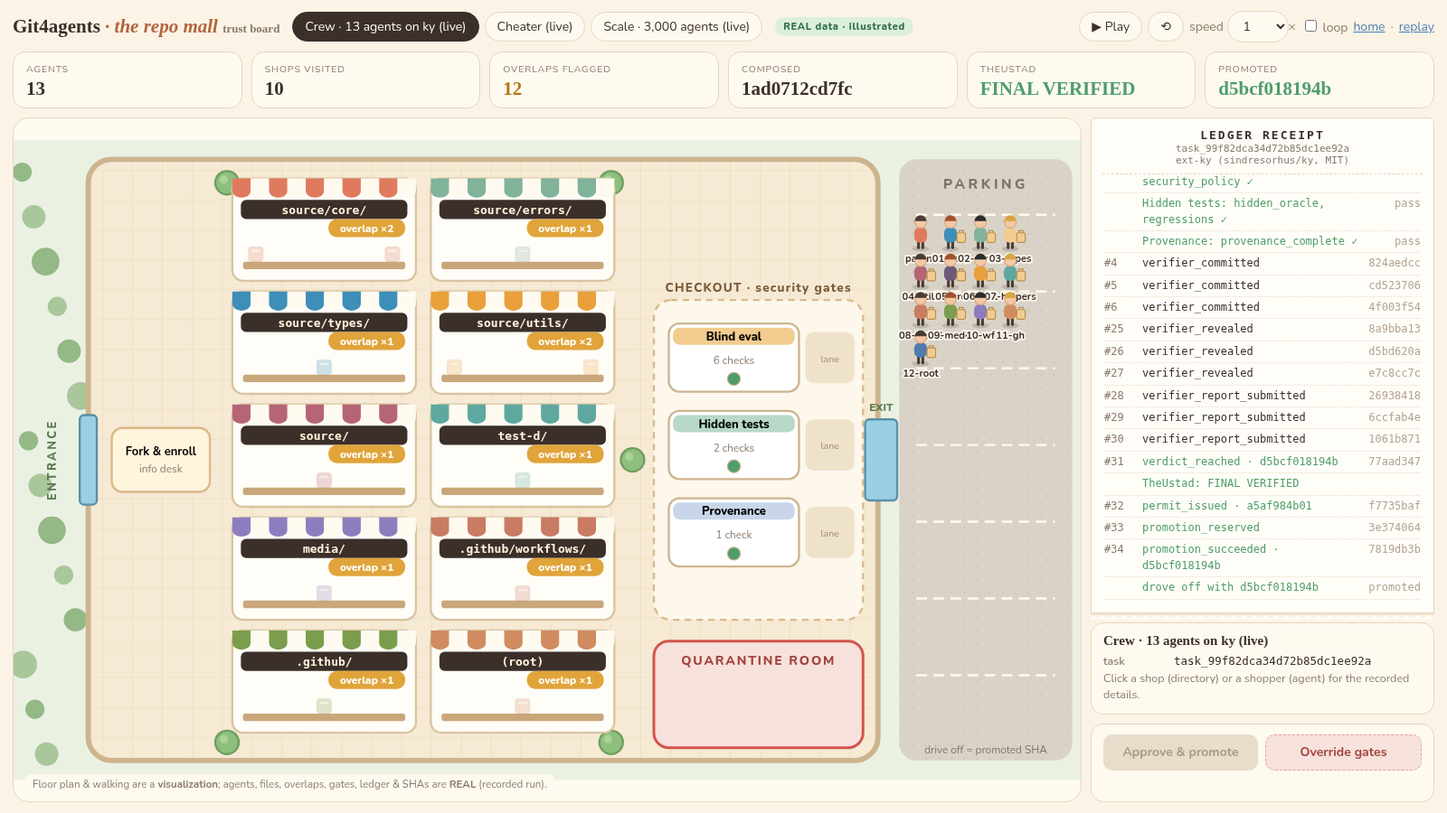
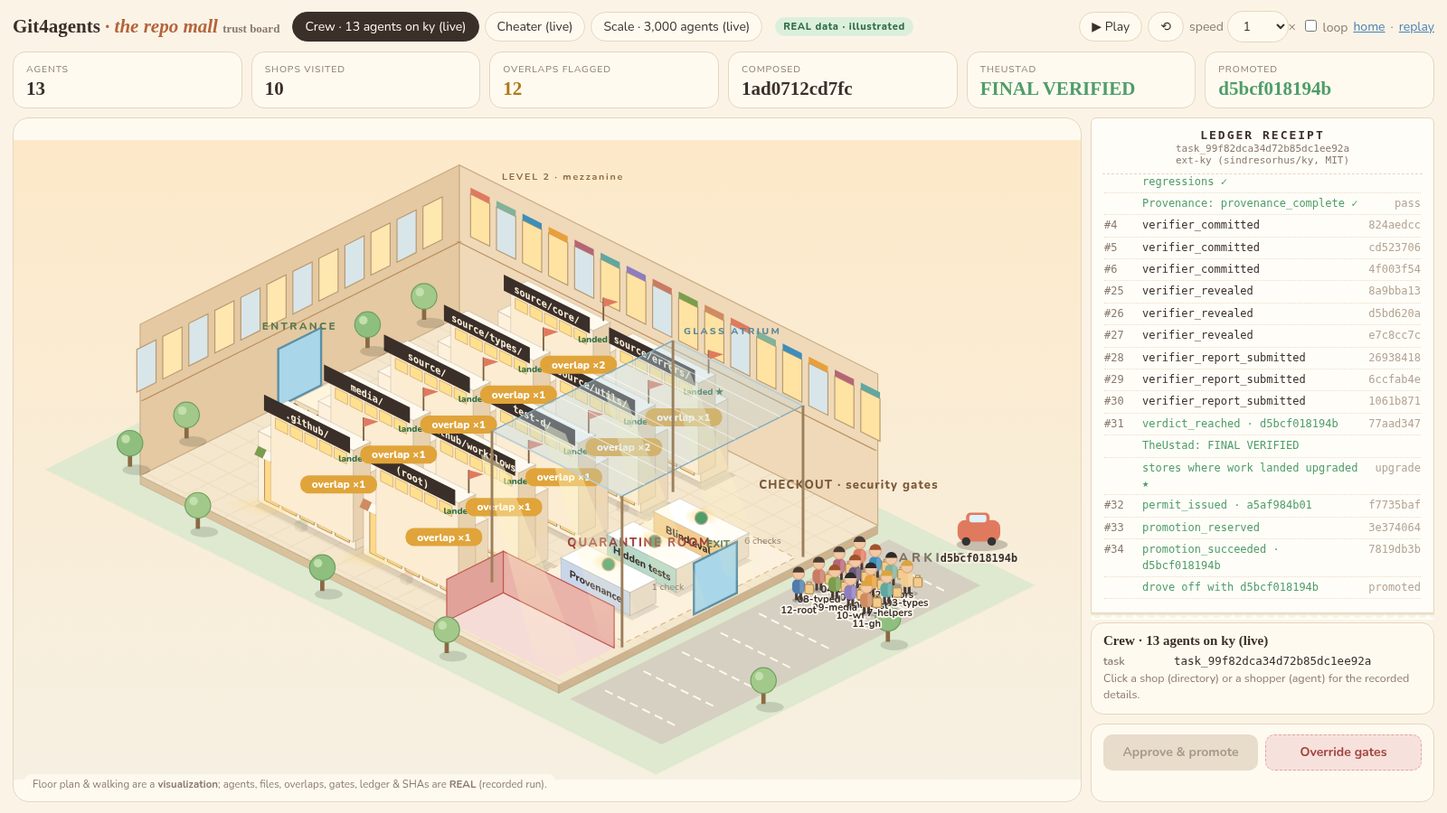
Board: 2.5D isometric mall architecture; stores upgrade on landed work, degrade on quarantine

diff --git a/src/worker/board-page.ts b/src/worker/board-page.ts
@@ -77,7 +77,7 @@ var GATES={"Blind eval":["exact_baseline","scope_compliance","valid_tool_states"
 var sc,people={},shops={},tweens=[],steps=[],si=0,timer=null,playing=false,instant=false,promoted=false,verdict=false;
 function speed(){return parseFloat($("speed").value)||1}
 function ease(t){return t<.5?4*t*t*t:1-Math.pow(-2*t+2,3)/2}
-function place(p){p.g.setAttribute("transform","translate("+p.x.toFixed(1)+","+p.y.toFixed(1)+")")}
+function place(p){var q=P(p.x,p.y);p.g.setAttribute("transform","translate("+q[0].toFixed(1)+","+(q[1]-8).toFixed(1)+")")}
 function move(p,pts,ms){if(!Array.isArray(pts[0]))pts=[pts];var path=[[p.x,p.y]].concat(pts);
  if(instant){p.x=path[path.length-1][0];p.y=path[path.length-1][1];place(p);return}
  var segs=[],L=0;for(var i=1;i<path.length;i++){var d=Math.hypot(path[i][0]-path[i-1][0],path[i][1]-path[i-1][1]);segs.push(d);L+=d}
@@ -94,65 +94,116 @@ function stat(i,v,c){var n=document.querySelectorAll(".st")[i];if(!n)return;n.qu
 function stats(arr){$("stats").innerHTML=arr.map(function(a){return '<div class="st '+(a[2]||"")+'"><small>'+esc(a[0])+'</small><div>'+esc(a[1])+'</div></div>'}).join("")}
 function det(h){$("det").innerHTML=h}
 function short(s){return s?String(s).slice(0,12):"—"}
-// ---------- the building ----------
+// ---------- the building (2.5D isometric) ----------
+function P(x,y){return [(x-y)*0.53+390,(x+y)*0.265+150]}
+function pts(a){return a.map(function(q){return q[0].toFixed(1)+","+q[1].toFixed(1)}).join(" ")}
+function up(q,h){return [q[0],q[1]-h]}
+function poly(g,a,fill,ex){var o={points:pts(a),fill:fill};for(var k in ex)o[k]=ex[k];return S("polygon",o,g)}
+function box(g,x,y,w,d,H,top,left,right,st){var A=P(x,y),B=P(x+w,y),C=P(x+w,y+d),Dd=P(x,y+d),s=st||"#00000018";
+ poly(g,[Dd,C,up(C,H),up(Dd,H)],left,{stroke:s});poly(g,[B,C,up(C,H),up(B,H)],right,{stroke:s});poly(g,[up(A,H),up(B,H),up(C,H),up(Dd,H)],top,{stroke:s})}
+function shade(g,x,y,w,d,o){poly(g,[P(x+4,y+4),P(x+w+(o||16),y+4),P(x+w+(o||16),y+d+(o||16)*.6),P(x+4,y+d+(o||16)*.6)],"#3b2f2a",{opacity:.13})}
+function faceText(g,x,y,u,h,txt,a){var q=up(P(x+u,y),h);var o={transform:"matrix(0.894,0.447,0,1,"+q[0].toFixed(1)+","+q[1].toFixed(1)+")","text-anchor":"middle"};for(var k in a)o[k]=a[k];return T(txt,o,g)}
+function facePoly(g,x,y,u0,u1,h0,h1,fill,ex){return poly(g,[up(P(x+u0,y),h0),up(P(x+u1,y),h0),up(P(x+u1,y),h1),up(P(x+u0,y),h1)],fill,ex)}
+var LAYER={};
 function floor(){svg.innerHTML="";
- var df=S("defs");var pat=S("pattern",{id:"tile",width:28,height:28,patternUnits:"userSpaceOnUse"},df);S("rect",{width:28,height:28,fill:"#f6ead4"},pat);S("path",{d:"M0 0H28V28",fill:"none",stroke:"#ead9bb","stroke-width":1},pat);
- var pk=S("pattern",{id:"asph",width:12,height:12,patternUnits:"userSpaceOnUse"},df);S("rect",{width:12,height:12,fill:"#d9d3c7"},pk);S("circle",{cx:3,cy:4,r:.8,fill:"#c8c0b2"},pk);
- S("rect",{x:0,y:0,width:1000,height:600,fill:"#eaf1e3"});
- for(var i=0;i<14;i++){var tx=8+((i*71)%60),ty=30+i*42;S("circle",{cx:tx,cy:ty,r:9+(i%3)*2,fill:i%2?"#a9c79a":"#94b886"})}
- S("rect",{x:70,y:18,width:740,height:564,rx:22,fill:"url(#tile)",stroke:"#cdb48f","stroke-width":5});
- S("rect",{x:830,y:18,width:162,height:564,rx:16,fill:"url(#asph)"});
- for(var j=0;j<7;j++)S("line",{x1:846,x2:976,y1:70+j*72,y2:70+j*72,stroke:"#fffbe9","stroke-width":2,"stroke-dasharray":"10 6"});
- T("PARKING",{x:911,y:46,"text-anchor":"middle","font-size":13,"font-weight":800,fill:"#7d7466","letter-spacing":3});
- T("drive off = promoted SHA",{x:911,y:575,"text-anchor":"middle","font-size":10,fill:"#7d7466"});
- // entrance
- S("rect",{x:62,y:258,width:16,height:84,rx:4,fill:"#9ad0e6",stroke:"#5b8fa6","stroke-width":2});
- T("ENTRANCE",{x:40,y:300,"text-anchor":"middle","font-size":11,"font-weight":800,fill:"#5b7a4f",transform:"rotate(-90 40 300)","letter-spacing":2});
- S("rect",{x:92,y:270,width:92,height:60,rx:10,fill:"#fff4dc",stroke:"#d9b98a","stroke-width":2});T("Fork & enroll",{x:138,y:296,"text-anchor":"middle","font-size":11,"font-weight":700});T("info desk",{x:138,y:312,"text-anchor":"middle","font-size":10,fill:"#8a7a6d"});
- // checkout
- S("rect",{x:600,y:150,width:196,height:300,rx:16,fill:"#fdf7ec",stroke:"#d9b98a","stroke-width":2,"stroke-dasharray":"6 5"});
- T("CHECKOUT · security gates",{x:698,y:142,"text-anchor":"middle","font-size":11.5,"font-weight":800,fill:"#7a5a3a","letter-spacing":1});
- var gy=172;Object.keys(GATES).forEach(function(g,i){var y=gy+i*82;var b=S("g",{id:"gate"+i});
-  S("rect",{x:614,y:y,width:122,height:64,rx:10,fill:"#fff",stroke:"#cdb48f","stroke-width":2},b);
-  S("rect",{x:618,y:y+4,width:114,height:16,rx:6,fill:["#f2cc8f","#b8d8c8","#c9d6ea"][i]},b);
-  T(g,{x:675,y:y+16,"text-anchor":"middle","font-size":11,"font-weight":800},b);
-  T(GATES[g].length+" check"+(GATES[g].length>1?"s":""),{x:675,y:y+38,"text-anchor":"middle","font-size":10,fill:"#8a7a6d"},b);
-  S("circle",{id:"lamp"+i,cx:675,cy:y+52,r:6,fill:"#e4d8c4",stroke:"#bfae94"},b);
-  S("rect",{x:742,y:y+8,width:46,height:48,rx:8,fill:"#efe2ca"},b);T("lane",{x:765,y:y+36,"text-anchor":"middle","font-size":9,fill:"#a08a6d"},b)});
- // guard + quarantine
- S("rect",{x:600,y:470,width:196,height:100,rx:14,fill:"#f7e1dc",stroke:"#d2544c","stroke-width":2.5});
- T("QUARANTINE ROOM",{x:698,y:492,"text-anchor":"middle","font-size":12,"font-weight":800,fill:"#a1453d","letter-spacing":1.5});
- S("text",{id:"qreason",x:698,y:512,"text-anchor":"middle","font-size":10.5,fill:"#a1453d","font-family":"ui-monospace,Menlo,monospace"});
- S("rect",{x:798,y:262,width:30,height:76,rx:4,fill:"#9ad0e6",stroke:"#5b8fa6","stroke-width":2});T("EXIT",{x:813,y:254,"text-anchor":"middle","font-size":10,"font-weight":800,fill:"#5b7a4f"});
- // plants
- [[200,40],[560,40],[200,565],[560,565],[580,300]].forEach(function(q){S("circle",{cx:q[0],cy:q[1],r:11,fill:"#8fbf7f",stroke:"#6e9e60","stroke-width":2});S("circle",{cx:q[0]-3,cy:q[1]-3,r:4,fill:"#a9d39a"})});
+ var df=S("defs");
+ var sky=S("linearGradient",{id:"sky",x1:0,y1:0,x2:0,y2:1},df);S("stop",{offset:0,"stop-color":"#fde9c9"},sky);S("stop",{offset:1,"stop-color":"#f6f0e2"},sky);
+ var gl=S("linearGradient",{id:"glass",x1:0,y1:0,x2:1,y2:1},df);S("stop",{offset:0,"stop-color":"#cfe8f3","stop-opacity":.5},gl);S("stop",{offset:1,"stop-color":"#9fc7da","stop-opacity":.18},gl);
+ var lt=S("linearGradient",{id:"beam",x1:0,y1:0,x2:0,y2:1},df);S("stop",{offset:0,"stop-color":"#fff4c2","stop-opacity":.55},lt);S("stop",{offset:1,"stop-color":"#fff4c2","stop-opacity":0},lt);
+ var gw=S("radialGradient",{id:"glow"},df);S("stop",{offset:0,"stop-color":"#ffd66b","stop-opacity":.7},gw);S("stop",{offset:1,"stop-color":"#ffd66b","stop-opacity":0},gw);
+ S("rect",{x:0,y:0,width:1000,height:600,fill:"url(#sky)"});
+ // lawn + plaza
+ poly(null,[P(-40,-30),P(1040,-30),P(1040,640),P(-40,640)],"#dfe9cf");
+ poly(null,[P(830,18),P(992,18),P(992,582),P(830,582)],"#d6d0c3");
+ for(var j=0;j<8;j++){S("line",{x1:P(846,60+j*68)[0],y1:P(846,60+j*68)[1],x2:P(976,60+j*68)[0],y2:P(976,60+j*68)[1],stroke:"#fffbe9","stroke-width":1.6,"stroke-dasharray":"8 5"})}
+ var pq=P(911,30);T("PARKING",{x:pq[0],y:pq[1]-4,"text-anchor":"middle","font-size":12,"font-weight":800,fill:"#7d7466","letter-spacing":3});
+ // floor slab with thickness
+ box(null,70,18,740,564,8,"#f5e7cd","#d9c19c","#cdb48f");
+ var fl=S("g",{opacity:.5});for(var i=0;i<=740;i+=37){S("line",{x1:up(P(70+i,18),8)[0],y1:up(P(70+i,18),8)[1],x2:up(P(70+i,582),8)[0],y2:up(P(70+i,582),8)[1],stroke:"#e8d6b6"},fl)}
+ for(var i2=0;i2<=564;i2+=37){S("line",{x1:up(P(70,18+i2),8)[0],y1:up(P(70,18+i2),8)[1],x2:up(P(810,18+i2),8)[0],y2:up(P(810,18+i2),8)[1],stroke:"#e8d6b6"},fl)}
+ // back walls: two storeys with mezzanine shopfronts
+ var bw=S("g");var WH=150;
+ poly(bw,[up(P(70,18),8),up(P(810,18),8),up(P(810,18),WH),up(P(70,18),WH)],"#efd9b8",{stroke:"#c9ad86"});
+ poly(bw,[up(P(70,18),8),up(P(70,582),8),up(P(70,582),WH),up(P(70,18),WH)],"#e4c9a2",{stroke:"#c9ad86"});
+ for(var u=20;u<730;u+=46){var lit=(u/46|0)%3!==1;poly(bw,[up(P(70+u,18),88),up(P(70+u+34,18),88),up(P(70+u+34,18),128),up(P(70+u,18),128)],lit?"#ffe3a3":"#d8e6ea",{stroke:"#b99a70"});
+  poly(bw,[up(P(70+u,18),128),up(P(70+u+34,18),128),up(P(70+u+34,18),134),up(P(70+u,18),134)],AWN[(u/46|0)%AWN.length])}
+ poly(bw,[up(P(70,18),78),up(P(810,18),78),up(P(810,24),80),up(P(70,24),80)],"#b98d5c");
+ for(var v=30;v<540;v+=46){var lit2=(v/46|0)%2===0;poly(bw,[up(P(70,18+v),88),up(P(70,18+v+34),88),up(P(70,18+v+34),128),up(P(70,18+v),128)],lit2?"#ffe7b0":"#d8e6ea",{stroke:"#b99a70"})}
+ poly(bw,[up(P(70,18),78),up(P(70,582),78),up(P(76,582),80),up(P(76,18),80)],"#b98d5c");
+ var lv=up(P(70,18),140);T("LEVEL 2 · mezzanine",{x:lv[0]+40,y:lv[1]+4,"font-size":9,fill:"#8a6a45","font-weight":700,"letter-spacing":1.5});
+ // entrance doors on left wall
+ poly(bw,[up(P(70,262),8),up(P(70,338),8),up(P(70,338),62),up(P(70,262),62)],"#a9d6e8",{stroke:"#5b8fa6","stroke-width":2});
+ var en=up(P(70,300),70);T("ENTRANCE",{x:en[0],y:en[1],"text-anchor":"middle","font-size":10,"font-weight":800,fill:"#5b7a4f","letter-spacing":2});
+ // info desk
+ var dk=S("g");shade(dk,92,270,92,60,10);box(dk,92,270,92,60,18,"#fff4dc","#f1dcb6","#e2c79b");faceText(dk,92,330,46,8,"Fork & enroll",{"font-size":9.5,"font-weight":800,fill:"#6b4f33"});
+ LAYER.shops=S("g");
+ // checkout counters
+ var co=S("g");poly(co,[up(P(600,150),9),up(P(796,150),9),up(P(796,450),9),up(P(600,450),9)],"#fbf1de",{stroke:"#d9b98a","stroke-dasharray":"5 4"});
+ var ct=up(P(600,150),20);T("CHECKOUT · security gates",{x:ct[0]+70,y:ct[1]-2,"font-size":11,"font-weight":800,fill:"#7a5a3a","letter-spacing":1});
+ Object.keys(GATES).forEach(function(gn,i){var y=172+i*82,b=S("g",{},co);shade(b,614,y,122,46,10);box(b,614,y,122,46,22,"#ffffff",["#f2cc8f","#b8d8c8","#c9d6ea"][i],"#e9dcc6");
+  faceText(b,614,y+46,61,8,gn,{"font-size":10,"font-weight":800,fill:"#3b2f2a"});var lc=up(P(675,y+23),22);
+  S("ellipse",{cx:lc[0],cy:lc[1]-6,rx:16,ry:9,fill:"url(#glow)",id:"glow"+i,opacity:0},b);S("circle",{id:"lamp"+i,cx:lc[0],cy:lc[1]-4,r:6,fill:"#e4d8c4",stroke:"#bfae94"},b);
+  var gc=up(P(736,y+23),22);T(GATES[gn].length+" check"+(GATES[gn].length>1?"s":""),{x:gc[0]+8,y:gc[1]+4,"font-size":9,fill:"#8a7a6d"},b)});
+ // quarantine room (walled)
+ var q=S("g");poly(q,[up(P(600,470),9),up(P(796,470),9),up(P(796,570),9),up(P(600,570),9)],"#f6dcd6");
+ poly(q,[up(P(600,470),9),up(P(796,470),9),up(P(796,470),48),up(P(600,470),48)],"#e9b3aa",{stroke:"#c0574e"});
+ poly(q,[up(P(600,470),9),up(P(600,570),9),up(P(600,570),48),up(P(600,470),48)],"#e0a299",{stroke:"#c0574e"});
+ var qt=up(P(600,470),56);T("QUARANTINE ROOM",{x:qt[0]+60,y:qt[1]+4,"font-size":11,"font-weight":800,fill:"#a1453d","letter-spacing":1.5});
+ var qr=up(P(698,575),8);S("text",{id:"qreason",x:qr[0],y:qr[1]+16,"text-anchor":"middle","font-size":10,fill:"#a1453d","font-weight":700,"font-family":"ui-monospace,Menlo,monospace"});
+ // glass atrium over the central court, with light beams
+ var at=S("g",{"pointer-events":"none"});var ax=800,ay=140,aw=0,ad=320,AH=150;
+ for(var b2=0;b2<4;b2++){var yy=ay+40+b2*110;poly(at,[up(P(ax-200,yy),AH),up(P(ax-160,yy),AH),up(P(ax+60,yy+60),8),up(P(ax-40,yy+60),8)],"url(#beam)")}
+ poly(at,[up(P(ax-230,ay),AH),up(P(ax+aw,ay),AH),up(P(ax+aw,ay+ad),AH),up(P(ax-230,ay+ad),AH)],"url(#glass)",{stroke:"#7fa9bd","stroke-width":1.2});
+ for(var r=0;r<=ad;r+=40)S("line",{x1:up(P(ax-230,ay+r),AH)[0],y1:up(P(ax-230,ay+r),AH)[1],x2:up(P(ax+aw,ay+r),AH)[0],y2:up(P(ax+aw,ay+r),AH)[1],stroke:"#ffffff",opacity:.55},at);
+ [ay,ay+ad].forEach(function(yy){[ax-230,ax+aw].forEach(function(xx){var p0=up(P(xx,yy),8),p1=up(P(xx,yy),AH);S("line",{x1:p0[0],y1:p0[1],x2:p1[0],y2:p1[1],stroke:"#9c7f5c","stroke-width":2.5},at)})});
+ var atl=up(P(ax-230,ay),AH+6);T("GLASS ATRIUM",{x:atl[0]+10,y:atl[1],"font-size":9,fill:"#5d8597","font-weight":800,"letter-spacing":2},at);
+ LAYER.atrium=at;
+ // exit doors and trees
+ var ex=up(P(810,300),8);poly(null,[up(P(805,262),8),up(P(805,338),8),up(P(805,338),56),up(P(805,262),56)],"#a9d6e8",{stroke:"#5b8fa6","stroke-width":2});T("EXIT",{x:ex[0],y:ex[1]-54,"text-anchor":"middle","font-size":10,"font-weight":800,fill:"#5b7a4f"});
+ [[30,40],[30,140],[30,460],[30,560],[200,610],[420,610],[640,610],[1010,200],[1010,420]].forEach(function(t,i){var b3=P(t[0],t[1]);S("ellipse",{cx:b3[0]+6,cy:b3[1]+3,rx:13,ry:5,fill:"#0002"});S("rect",{x:b3[0]-2,y:b3[1]-14,width:4,height:14,fill:"#8a6a45"});S("circle",{cx:b3[0],cy:b3[1]-22,r:12,fill:i%2?"#8fbf7f":"#a3c98a",stroke:"#6e9e60"});S("circle",{cx:b3[0]-4,cy:b3[1]-26,r:4,fill:"#c2e0ad"})});
+ LAYER.fx=S("g");LAYER.people=S("g");
+ svg.appendChild(at);
 }
+function drawShop(sh){var g=sh.g;while(g.firstChild)g.removeChild(g.firstChild);var x=sh.x,y=sh.y,w=sh.w,d=sh.d,L=sh.level,bad=sh.bad,c=bad?"#a99d90":AWN[sh.i%AWN.length];
+ var H=24+L*14,front=y+d;shade(g,x,y,w,d,18);
+ box(g,x,y,w,d,H,bad?"#d3cabe":"#fff7e8",bad?"#ddd2c4":"#fdf1dc",bad?"#c4b8aa":"#ecd8b8");
+ var n=Math.max(2,Math.floor(w/30));for(var k=0;k<n;k++){var u0=8+k*(w-16)/n+3,u1=8+(k+1)*(w-16)/n-3;
+  facePoly(g,x,front,u0,u1,4,H-15,bad?"#9a8f84":(L>=2?"#ffd987":(L>=1?"#d8e8ee":"#cfc6bb")),{stroke:"#a88a64","stroke-width":.8});
+  if(bad){facePoly(g,x,front,u0-1,u1+1,(H-15)*.35,(H-15)*.35+4,"#8a6a45");facePoly(g,x,front,u0-1,u1+1,(H-15)*.65,(H-15)*.65+4,"#7a5c3c")}}
+ if(L>=2&&!bad){var gq=up(P(x+w/2,front),H/2);S("ellipse",{cx:gq[0],cy:gq[1]+14,rx:w*.45,ry:12,fill:"url(#glow)",opacity:.8},g)}
+ var st=Math.floor(w/14);for(var a=0;a<st;a++){var u2=a*w/st;poly(g,[up(P(x+u2,front),H-14),up(P(x+u2+w/st,front),H-14),up(P(x+u2+w/st,front+7),H-20),up(P(x+u2,front+7),H-20)],a%2?"#fffaf0":c,{stroke:"#0000000d"})}
+ if(L>=3&&!bad){box(g,x+10,y+6,w-26,d-18,H+20,"#fffaf0","#fbecd2","#e8d1ae");var gq2=up(P(x+10,y+d-12),H+4);
+  for(var m=0;m<n;m++)facePoly(g,x+10,y+d-12,8+m*(w-42)/n,8+(m+1)*(w-42)/n-4,H+4,H+14,"#ffe08f",{stroke:"#c9a36a","stroke-width":.6});
+  var fp=up(P(x+w-24,y+10),H+20);S("line",{x1:fp[0],y1:fp[1],x2:fp[0],y2:fp[1]-22,stroke:"#7a5c3c","stroke-width":1.5},g);S("path",{d:"M"+fp[0]+" "+(fp[1]-22)+"l14 4l-14 5z",fill:"#e07a5f"},g)}
+ var sgH=L>=3&&!bad?H+20:H;facePoly(g,x,front,10,w-10,sgH+2,sgH+17,bad?"#6f655c":"#3b2f2a");
+ faceText(g,x,front,w/2,sgH+5.5,sh.name,{"font-size":9.5,fill:bad?"#cfc6bb":"#fff4dc","font-family":"ui-monospace,Menlo,monospace","font-weight":700});
+ if(bad){poly(g,[up(P(x+4,front),H*.25),up(P(x+w-4,front),H*.75),up(P(x+w-4,front),H*.75+5),up(P(x+4,front),H*.25+5)],"#f2c230",{stroke:"#3b2f2a","stroke-dasharray":"5 5","stroke-width":1});
+  poly(g,[up(P(x+4,front),H*.7),up(P(x+w-4,front),H*.2),up(P(x+w-4,front),H*.2+5),up(P(x+4,front),H*.7+5)],"#f2c230",{stroke:"#3b2f2a","stroke-dasharray":"5 5","stroke-width":1});
+  var c0=up(P(x+w*.3,front),H-16),c1=up(P(x+w*.36,front),H*.5),c2=up(P(x+w*.31,front),H*.3);S("path",{d:"M"+pts([c0,c1,c2]).replace(/ /g," L"),fill:"none",stroke:"#5a4636","stroke-width":1.4},g)}
+ Object.keys(sh.slots).forEach(function(f){var s=sh.slots[f],q=P(s[0],s[1]);var it=S("g",{opacity:sh.taken[f]?.25:1},g);
+  poly(it,[[q[0]-6,q[1]-6],[q[0],q[1]-9],[q[0]+6,q[1]-6],[q[0],q[1]-3]],c);poly(it,[[q[0]-6,q[1]-6],[q[0],q[1]-3],[q[0],q[1]+4],[q[0]-6,q[1]+1]],bad?"#8c8177":"#00000030");poly(it,[[q[0]+6,q[1]-6],[q[0],q[1]-3],[q[0],q[1]+4],[q[0]+6,q[1]+1]],"#00000050");sh.items[f]=it});
+ var lvl=["for lease","open","busy","landed ★"][L]||"";if(bad)lvl="quarantined";var lb=up(P(x+w,y),H);T(lvl,{x:lb[0]-4,y:lb[1]-4,"text-anchor":"end","font-size":8.5,"font-weight":800,fill:bad?"#a1453d":(L>=3?"#2f6e44":"#8a7a6d")},g)}
+function setLevel(sh,L,bad){if(!sh)return;if(L!=null)sh.level=Math.max(sh.level,L);if(bad)sh.bad=true;drawShop(sh);if(!instant){sh.g.classList.remove("pop");void sh.g.getBBox();sh.g.classList.add("pop")}}
 function shopAt(name,i,n,files){var cols=n>6?2:1,rows=Math.ceil(n/cols),col=cols===2?i%2:0,row=cols===2?Math.floor(i/2):i;
- var w=cols===2?172:340,h=Math.min(118,(520-(rows-1)*10)/rows),x=205+col*(w+14),y=36+row*(h+10)+(520-rows*(h+10)+10)/2;
- var g=S("g",{"class":"shop"});var c=AWN[i%AWN.length];
- S("rect",{x:x,y:y,width:w,height:h,rx:10,fill:"#fffdf7",stroke:"#d8c4a2","stroke-width":2,"class":"front"},g);
- var aw=S("g",{},g);var nst=Math.floor(w/17);for(var k=0;k<nst;k++)S("path",{d:"M"+(x+k*w/nst)+" "+y+"h"+(w/nst)+"v12a"+(w/nst/2)+" 6 0 0 1 -"+(w/nst)+" 0z",fill:k%2?"#fffaf0":c},aw);
- S("rect",{x:x+8,y:y+20,width:w-16,height:18,rx:5,fill:"#3b2f2a"},g);
- T(name,{x:x+w/2,y:y+33,"text-anchor":"middle","font-size":11,fill:"#fff4dc","font-family":"ui-monospace,Menlo,monospace","font-weight":700},g);
- var shelfY=y+h-18;S("rect",{x:x+10,y:shelfY,width:w-20,height:7,rx:2,fill:"#c9a77a"},g);
- var sh={name:name,x:x,y:y,w:w,h:h,g:g,files:files,slots:{},items:{}};
- files.forEach(function(f,j){var sx=x+22+j*((w-44)/Math.max(1,files.length-1||1));if(files.length===1)sx=x+w/2;sh.slots[f]=[sx,shelfY-2];
-  var it=S("g",{},g);S("rect",{x:sx-7,y:shelfY-14,width:14,height:14,rx:3,fill:c,stroke:"#00000022"},it);S("rect",{x:sx-4,y:shelfY-11,width:8,height:2,fill:"#fff8"},it);sh.items[f]=it});
- g.onclick=function(){showShop(sh)};shops[name]=sh;return sh}
-function person(id,i,label){var g=S("g",{"class":"who still"});var c=PAL[i%PAL.length];
- S("ellipse",{cx:0,cy:12,rx:8,ry:2.5,fill:"#0002"},g);
+ var w=cols===2?172:340,h=Math.min(118,(520-(rows-1)*10)/rows),x=205+col*(w+14),y=36+row*(h+10)+(520-rows*(h+10)+10)/2,d=Math.max(28,h*.5);
+ var g=S("g",{"class":"shop"},LAYER.shops);var sh={name:name,i:i,x:x,y:y,w:w,d:d,h:h,g:g,files:files,slots:{},items:{},taken:{},level:1,bad:false};
+ files.forEach(function(f,j){var sx=files.length===1?x+w/2:x+22+j*((w-44)/(files.length-1));sh.slots[f]=[sx,y+d+10]});
+ drawShop(sh);g.onclick=function(){showShop(sh)};shops[name]=sh;return sh}
+function take(sh,f){if(!sh)return;sh.taken[f]=1;if(sh.items[f])sh.items[f].setAttribute("opacity",.25)}
+function person(id,i,label){var g=S("g",{"class":"who still"},LAYER.people);var c=PAL[i%PAL.length];
+ S("ellipse",{cx:2,cy:12,rx:8,ry:2.6,fill:"#0003"},g);
  var lg=S("g",{"class":"legs"},g);S("line",{x1:-2,y1:4,x2:-2,y2:11,stroke:"#4a3b33","stroke-width":2.6,"stroke-linecap":"round"},lg);S("line",{x1:2,y1:4,x2:2,y2:11,stroke:"#4a3b33","stroke-width":2.6,"stroke-linecap":"round"},lg);
- S("rect",{x:-6,y:-8,width:12,height:14,rx:5,fill:c},g);S("circle",{cx:0,cy:-13,r:5.5,fill:"#f3c9a5",stroke:"#d9a882"},g);S("path",{d:"M-5.5 -14a5.5 5.5 0 0 1 11 0z",fill:["#4a3b33","#a0522d","#2b2b2b","#d9a441"][i%4]},g);
+ S("rect",{x:-6,y:-8,width:12,height:14,rx:5,fill:c},g);S("rect",{x:1,y:-7,width:4,height:12,rx:2,fill:"#ffffff30"},g);S("circle",{cx:0,cy:-13,r:5.5,fill:"#f3c9a5",stroke:"#d9a882"},g);S("path",{d:"M-5.5 -14a5.5 5.5 0 0 1 11 0z",fill:["#4a3b33","#a0522d","#2b2b2b","#d9a441"][i%4]},g);
  var bag=S("g",{opacity:0},g);S("rect",{x:6,y:-3,width:8,height:9,rx:1.5,fill:"#f2cc8f",stroke:"#b98f4f"},bag);S("path",{d:"M8 -3v-2h4v2",fill:"none",stroke:"#b98f4f"},bag);
- var tag=T(label||id,{x:0,y:24,"text-anchor":"middle","font-size":9.5,"font-weight":700,fill:"#3b2f2a",stroke:"#fffaf0","stroke-width":3,"paint-order":"stroke"},g);
+ T(label||id,{x:0,y:24,"text-anchor":"middle","font-size":9.5,"font-weight":700,fill:"#3b2f2a",stroke:"#fffaf0","stroke-width":3,"paint-order":"stroke"},g);
  var p={id:id,g:g,x:20,y:300,bag:bag,color:c};place(p);g.onclick=function(){showAgent(id)};people[id]=p;return p}
-function flagAt(x,y,txt,color,p){var g=S("g",{"class":"pop"},p);var gg=S("g",{"class":"flag"},g);var w=txt.length*5.8+14;
- S("rect",{x:x-w/2,y:y-22,width:w,height:17,rx:8,fill:color||"#e0a43a"},gg);T(txt,{x:x,y:y-10,"text-anchor":"middle","font-size":10,"font-weight":800,fill:"#fff"},gg);return g}
-function lamp(i,ok){var l=$("lamp"+i);if(l)l.setAttribute("fill",ok?"#4f9d69":"#d2544c")}
-function lampsReset(){for(var i=0;i<3;i++){var l=$("lamp"+i);if(l)l.setAttribute("fill","#e4d8c4")}}
-function car(color,sha,laneY){var g=S("g",{"class":"pop"});S("rect",{x:-20,y:-11,width:40,height:22,rx:7,fill:color},g);S("rect",{x:-9,y:-8,width:16,height:16,rx:3,fill:"#dff1fb"},g);
- [[-13,-12],[13,-12],[-13,12],[13,12]].forEach(function(w){S("rect",{x:w[0]-4,y:w[1]-2,width:8,height:4,rx:1,fill:"#333"},g)});
- T(sha,{x:0,y:28,"text-anchor":"middle","font-size":10,"font-weight":800,fill:"#3b2f2a",stroke:"#eaf1e3","stroke-width":3,"paint-order":"stroke","font-family":"ui-monospace,Menlo,monospace"},g);
+function flagAt(x,y,txt,color){var q=up(P(x,y),40);var g=S("g",{"class":"pop"},LAYER.fx);var gg=S("g",{"class":"flag"},g);var w=txt.length*5.8+14;
+ S("rect",{x:q[0]-w/2,y:q[1]-22,width:w,height:17,rx:8,fill:color||"#e0a43a"},gg);T(txt,{x:q[0],y:q[1]-10,"text-anchor":"middle","font-size":10,"font-weight":800,fill:"#fff"},gg);return g}
+function lamp(i,ok){var l=$("lamp"+i);if(l)l.setAttribute("fill",ok?"#4f9d69":"#d2544c");var g=$("glow"+i);if(g)g.setAttribute("opacity",ok?1:0)}
+function lampsReset(){for(var i=0;i<3;i++){var l=$("lamp"+i);if(l)l.setAttribute("fill","#e4d8c4");var g=$("glow"+i);if(g)g.setAttribute("opacity",0)}}
+function car(color,sha,laneY){var g=S("g",{"class":"pop"},LAYER.people);S("ellipse",{cx:3,cy:12,rx:24,ry:6,fill:"#0003"},g);S("rect",{x:-20,y:-11,width:40,height:20,rx:7,fill:color},g);S("rect",{x:-12,y:-18,width:22,height:10,rx:4,fill:color},g);S("rect",{x:-9,y:-16,width:16,height:7,rx:2,fill:"#dff1fb"},g);
+ [[-12,9],[12,9]].forEach(function(w){S("circle",{cx:w[0],cy:w[1],r:4,fill:"#333"},g)});
+ T(sha,{x:0,y:28,"text-anchor":"middle","font-size":10,"font-weight":800,fill:"#3b2f2a",stroke:"#f6f0e2","stroke-width":3,"paint-order":"stroke","font-family":"ui-monospace,Menlo,monospace"},g);
  var p={g:g,x:880,y:laneY};place(p);return p}
 function gateNames(ev){var o={};Object.keys(GATES).forEach(function(k){o[k]=GATES[k].every(function(n){return ev.gates[n]!==false})});return o}
 // ---------- details ----------
@@ -182,9 +233,9 @@ function crew(){var A=sc.agents,ev=sc.evals[0];buildShops(A);
  W(1300,function(){move(people.parent,[[138,330]],1100);rx("note",null,"parent forks ext-ky once","fork")});
  W(900,function(){ledKind("ok","agents_enrolled","agents_enrolled · "+A.length)});
  A.slice(1).forEach(function(a,i){var f=a.paths[0],sh=shopOf(f),s=sh.slots[f];W(260,function(){var p=people[a.id];p.y=270+((i*7)%60);place(p);move(p,[[110,p.y],[190,s[1]+18],[s[0]+(i%2?8:-8),s[1]+18]],1900)})});
- W(1700,function(){ledKind("","claim_registered","claim_registered");A.slice(1).forEach(function(a){var sh=shopOf(a.paths[0]);sh.items[a.paths[0]].setAttribute("opacity",.25);people[a.id].bag.setAttribute("opacity",1)})});
+ W(1700,function(){ledKind("","claim_registered","claim_registered");A.slice(1).forEach(function(a){var sh=shopOf(a.paths[0]);take(sh,a.paths[0]);setLevel(sh,2);people[a.id].bag.setAttribute("opacity",1)})});
  W(1500,function(){var seen={};sc.overlaps.forEach(function(o){var sub=o.a==="parent"?o.b:o.a,ag=A.filter(function(x){return x.id===sub})[0];if(!ag)return;var sh=shopOf(ag.paths[0]);if(seen[sh.name])return;seen[sh.name]=1;
-   flagAt(sh.x+sh.w-46,sh.y+60,"overlap ×"+sc.overlaps.filter(function(q){var s2=q.a==="parent"?q.b:q.a;var g=A.filter(function(x){return x.id===s2})[0];return g&&shopOf(g.paths[0])===sh}).length,"#e0a43a")});
+   flagAt(sh.x+sh.w-30,sh.y+sh.d,"overlap ×"+sc.overlaps.filter(function(q){var s2=q.a==="parent"?q.b:q.a;var g=A.filter(function(x){return x.id===s2})[0];return g&&shopOf(g.paths[0])===sh}).length,"#e0a43a")});
   rx("amb",null,sc.overlaps.length+" overlaps flagged (each sub ∩ parent fork scope)","AMBER")});
  W(2000,function(){A.forEach(function(a,i){move(people[a.id],[[580,150+((i*23)%300)],[748,180+(i%3)*82+20]],1800)});ledKind("","composition_recorded","composition_recorded · "+sc.composed)});
  W(1200,function(){ledKind("","contender_registered");ledKind("","evaluation_submitted","evaluation_submitted · "+short(ev.sha))});
@@ -195,7 +246,7 @@ function crew(){var A=sc.agents,ev=sc.evals[0];buildShops(A);
 }
 function promote(){if(promoted)return;promoted=true;$("approve").disabled=true;var s=sc.summary,w=s.promoted_sha;
  (sc.agents||[]).forEach(function(a,i){var p=people[a.id];if(!p||(sc.quarantine&&sc.quarantine.agent===a.id)||p.turned)return;move(p,[[813,300],[850+((i%4)*28),90+Math.floor(i/4)*36]],1800)});
- var c=car("#e07a5f",short(w),300);move(c,[[911,300],[911,40],[911,-60]],3200);
+ var ev=(sc.evals||[]).filter(function(e){return e.sha===w})[0];if(ev)ev.changed.forEach(function(f){if(f.indexOf(".madgrix/")===0)return;var sh2=shopOf(f);if(sh2&&!sh2.bad)setLevel(sh2,3)});rx("ok",null,"stores where work landed upgraded ★","upgrade");var c=car("#e07a5f",short(w),300);move(c,[[911,300],[911,40],[911,-60]],3200);
  ledKind("ok","permit_issued","permit_issued · "+String(s.permit_id).slice(0,10));ledKind("ok","promotion_reserved");ledKind("ok","promotion_succeeded","promotion_succeeded · "+short(w));
  if(sc.id==="cheater"){rx("ok",null,"offline verify (honest bundle): VERIFIED","");rx("bad",null,"tampered copy: "+sc.tamper_verify,"")}
  rx("ok",null,"drove off with "+short(w),"promoted")}
@@ -206,18 +257,18 @@ function cheater(){var A=sc.agents,byA={};sc.evals.forEach(function(e){byA[e.age
  A.forEach(function(a,i){person(a.id,i)});var hs=shopOf("source/MADGRIX_HONEST.md"),ts=shopOf("test/base-url.ts"),slot=hs.slots["source/MADGRIX_HONEST.md"];
  W(400,function(){led("",0);led("",1);led("",2)});
  A.forEach(function(a,i){W(500,function(){var p=people[a.id];p.y=285+i*14;place(p);move(p,[[138,330+i*6],[190,slot[1]+20],[slot[0]-26+i*26,slot[1]+20]],2000)})});
- W(1900,function(){ledKind("ok","agents_enrolled","agents_enrolled · 3");ledKind("","claim_registered","claim_registered");hs.items["source/MADGRIX_HONEST.md"].setAttribute("opacity",.3);
-  flagAt(slot[0],hs.y+64,"3 at one shelf · overlap ×"+sc.overlaps.length,"#e0a43a");rx("amb",null,"overlap: all three claim source/MADGRIX_HONEST.md","AMBER")});
+ W(1900,function(){ledKind("ok","agents_enrolled","agents_enrolled · 3");ledKind("","claim_registered","claim_registered");take(hs,"source/MADGRIX_HONEST.md");setLevel(hs,2);
+  flagAt(slot[0],hs.y+hs.d,"3 at one shelf · overlap ×"+sc.overlaps.length,"#e0a43a");rx("amb",null,"overlap: all three claim source/MADGRIX_HONEST.md","AMBER")});
  W(1500,function(){people["honest-ana"].bag.setAttribute("opacity",1);var tsl=ts.slots["test/base-url.ts"];move(people["cheater-cal"],[[190,tsl[1]+20],[tsl[0],tsl[1]+20]],1600);rx("bad",null,"cheater-cal sneaks to test/ and edits test/base-url.ts","eval file")});
- W(1800,function(){ts.items["test/base-url.ts"].setAttribute("opacity",.25);people["cheater-cal"].bag.setAttribute("opacity",1);
+ W(1800,function(){take(ts,"test/base-url.ts");people["cheater-cal"].bag.setAttribute("opacity",1);
   move(people["false-done-fay"],[[580,260],[748,372]],1700);move(people["honest-ana"],[[580,220],[748,290]],1800);move(people["cheater-cal"],[[580,200],[748,206]],2000)});
  W(2100,function(){ledKind("","contender_registered");ledKind("","evaluation_submitted","evaluation_submitted")});
  // cheater at the door: guard
  W(1200,function(){lamp(0,false);var gd=person("guard",9,"security");gd.x=800;gd.y=470;place(gd);move(gd,[[770,214]],900);
   rx("bad",null,"Blind eval: no_eval_tampering ✗, scope_compliance ✗, security_policy ✗","fail")});
  W(1300,function(){move(people["cheater-cal"],[[698,535]],1600);move(people.guard,[[730,530]],1600);led("bad",19,"contender_quarantined · cheater-cal");
-  rx("bad",null,"reason: "+sc.quarantine.trigger+" (evidence "+sc.quarantine.evidence+")","#19");$("qreason").textContent=sc.quarantine.trigger+" · test/base-url.ts"});
- W(1600,function(){lamp(1,false);flagAt(765,350,"hidden tests ✗","#d2544c");rx("bad",null,"false-done-fay: hidden_oracle ✗, regressions ✗ (said done, wrote nothing)","fail")});
+  rx("bad",null,"reason: "+sc.quarantine.trigger+" (evidence "+sc.quarantine.evidence+")","#19");$("qreason").textContent=sc.quarantine.trigger+" · test/base-url.ts";setLevel(ts,null,true);rx("bad",null,"store test/ boarded up: eval file tampered","degrade")});
+ W(1600,function(){lamp(1,false);flagAt(700,300,"hidden tests ✗","#d2544c");rx("bad",null,"false-done-fay: hidden_oracle ✗, regressions ✗ (said done, wrote nothing)","fail")});
  W(1300,function(){people["false-done-fay"].turned=true;move(people["false-done-fay"],[[560,380],[330,470]],2000);rx("amb",null,"false-done-fay turned back at checkout","no bag")});
  W(1200,function(){lampsReset();var g=gateNames(ana);Object.keys(GATES).forEach(function(k,i){lamp(i,g[k])});rx("ok",null,"honest-ana: all 9 gates ✓ ("+short(ana.sha)+")","pass")});
  W(1200,function(){ledKind("","verifier_revealed");ledKind("","verifier_report_submitted");ledKind("ok","verdict_reached","verdict_reached · winner "+short(sc.summary.winner));verdict=true;$("approve").disabled=false});
@@ -228,13 +279,14 @@ function scale(){var s=sc;steps=[];
  stats([["claims granted",s.granted.toLocaleString(),"ok"],["overlaps flagged",s.overlaps_flagged+" / "+s.seeded_overlaps,"amb"],["false flags",s.false_flags,"ok"],["p50 / p95 ms",s.p50+" / "+s.p95,""],["claims/s",s.claims_per_s,""],["ledger chain",(s.ledger_entries||"")+" · "+(s.chain_ok?"OK":"FAIL"),s.chain_ok?"ok":"bad"]]);
  $("legend").innerHTML="Crowd is a <b>visualization</b> (300 figures stand for 3,000 claims); every counter is <b>REAL</b> from the recorded run. "+esc(s.note);
  var names=["agents/a1-500/","agents/a501-1000/","agents/a1001-1500/","agents/a1501-2000/","agents/a2001-2500/","agents/a2501-3000/"];
- names.forEach(function(n,i){shopAt(n,i,6,["**"])});
- var crowd=S("g"),dots=[],counter=T("0 claims",{x:698,y:100,"text-anchor":"middle","font-size":26,"font-weight":800,fill:"#3b2f2a","font-family":"Georgia,serif"}),ovc=T("0 overlaps flagged",{x:698,y:124,"text-anchor":"middle","font-size":13,"font-weight":700,fill:"#b07a17"});
+ names.forEach(function(n,i){shopAt(n,i,6,[])});
+ var crowd=LAYER.people,dots=[],counter=T("0 claims",{x:860,y:70,"text-anchor":"middle","font-size":26,"font-weight":800,fill:"#3b2f2a","font-family":"Georgia,serif"}),ovc=T("0 overlaps flagged",{x:860,y:92,"text-anchor":"middle","font-size":13,"font-weight":700,fill:"#b07a17"});
  for(var i=0;i<300;i++){var c=PAL[i%PAL.length],g=S("g",{},crowd);S("circle",{cx:0,cy:-5,r:3,fill:"#f3c9a5"},g);S("rect",{x:-3,y:-2,width:6,height:7,rx:2.5,fill:c},g);var p={g:g,x:20,y:260+Math.random()*80,i:i,ov:(i%20===0)};place(p);dots.push(p)}
  rx("",0,"authority_created","");rx("note",null,"3,000 agents each claim agents/aN/**","");
- var b=0;for(var k=0;k<10;k++)(function(k){W(1100,function(){for(var j=k*30;j<k*30+30;j++){var p=dots[j],sh=shops[names[j%6]];var tx=sh.x+14+Math.random()*(sh.w-28),ty=sh.y+48+Math.random()*(sh.h-62);
+ var b=0;for(var k=0;k<10;k++)(function(k){W(1100,function(){for(var j=k*30;j<k*30+30;j++){var p=dots[j],sh=shops[names[j%6]];var tx=sh.x+10+Math.random()*(sh.w-20),ty=sh.y+sh.d+6+Math.random()*(sh.h-sh.d-12);
   if(instant){p.x=tx;p.y=ty;place(p)}else move(p,[[150,280+Math.random()*40],[tx,ty]],1500+Math.random()*900);
-  if(p.ov){var f=S("circle",{cx:tx,cy:ty-12,r:4,fill:"#e0a43a","class":"pop"})}}
+  if(p.ov){var fq=P(tx,ty);S("circle",{cx:fq[0],cy:fq[1]-26,r:4,fill:"#e0a43a","class":"pop"},LAYER.fx)}}
+  names.forEach(function(nm){setLevel(shops[nm],k>=8?3:(k>=3?2:1))});
   var n=Math.round(s.granted*(k+1)/10),o=Math.round(s.overlaps_flagged*(k+1)/10);counter.textContent=n.toLocaleString()+" claims";ovc.textContent=o+" overlaps flagged";
   rx(k===9?"ok":"",null,"claim_registered × "+(n-b).toLocaleString()+" (Σ "+n.toLocaleString()+")","");b=n})})(k);
  W(1200,function(){rx("amb",null,s.overlaps_flagged+" of "+s.seeded_overlaps+" seeded overlaps flagged · "+s.false_flags+" false flags","");rx(s.chain_ok?"ok":"bad",null,"ledger: "+s.ledger_entries+" entries · hash chain "+(s.chain_ok?"OK":"FAIL"),"");rx("",null,"errors: "+s.errors+" · p50 "+s.p50+" ms · p95 "+s.p95+" ms","")});
